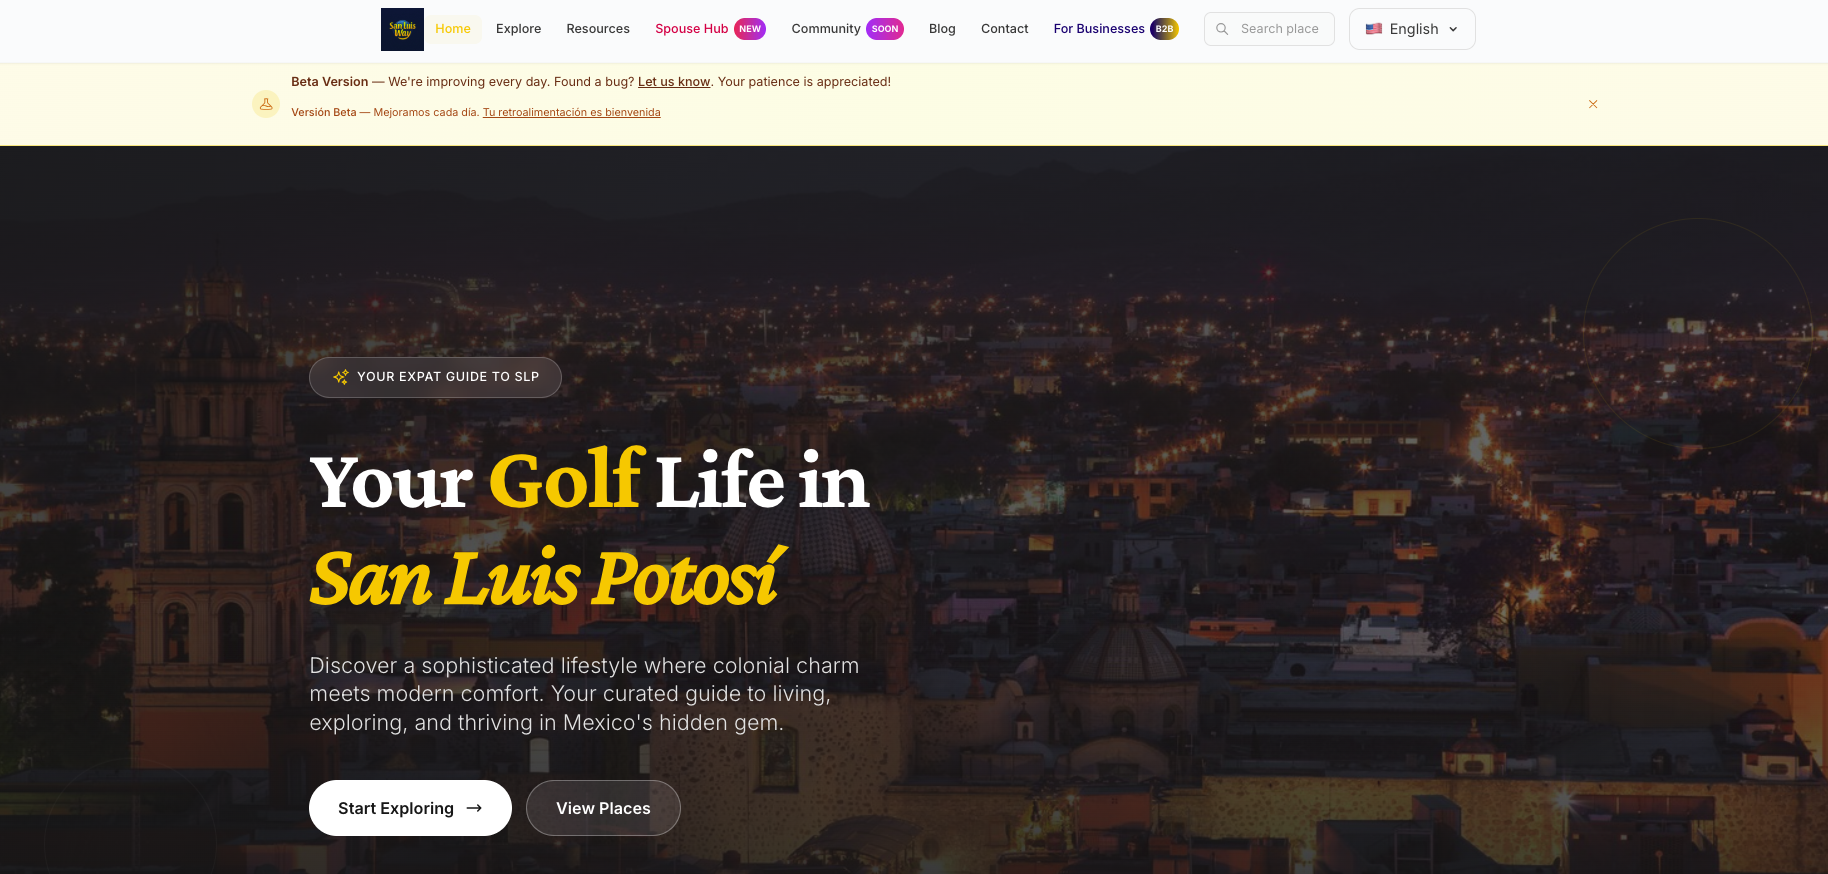
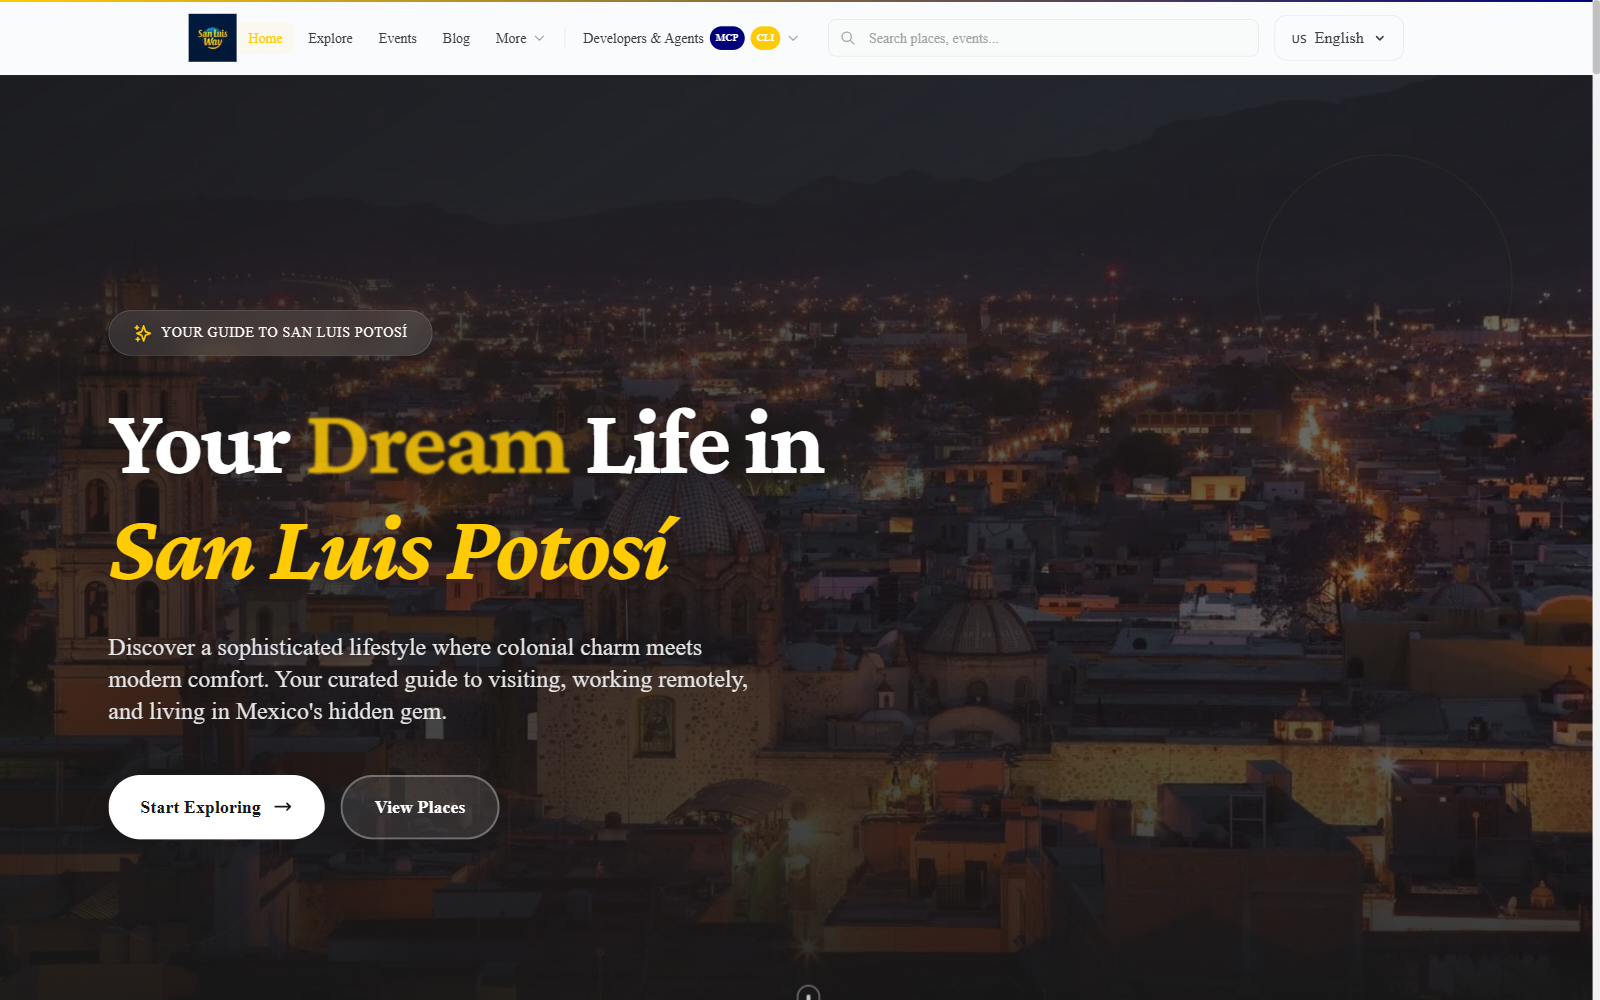
Add BriefBoy project and refresh home thumbnails
Refresh San Luis Way and GlamLocal thumbnails with new captures, add
BriefBoy as a third project on home and /projects. Switch work grid to
16:10 aspect and 3-column layout so images fit without side-cropping,
and surface the tech stack as chips under each card.

diff --git a/app/[locale]/page.tsx b/app/[locale]/page.tsx
@@ -21,12 +21,21 @@ const projects = [
     image: "/images/project-screenshots/san-luis-way.png",
     link: "https://sanluisway.com",
     tagKey: "0",
+    stack: ["Next.js", "Supabase", "OpenAI", "Tailwind"],
   },
   {
     title: "GlamLocal",
     image: "/images/project-screenshots/glamlocal.png",
     link: "https://glamlocal.app/",
     tagKey: "1",
+    stack: ["Next.js", "Supabase", "OpenAI", "Tailwind"],
+  },
+  {
+    title: "BriefBoy",
+    image: "/images/project-screenshots/briefboy.png",
+    link: "https://brief-boy.com/landing",
+    tagKey: "2",
+    stack: ["React", "Node.js", "OpenAI", "Tailwind"],
   },
 ] as const;
 
@@ -190,7 +199,7 @@ export default function Home() {
               </Link>
             </div>
 
-            <div className="grid md:grid-cols-2 gap-8 md:gap-12">
+            <div className="grid md:grid-cols-2 lg:grid-cols-3 gap-8 md:gap-10">
               {projects.map((p, i) => (
                 <Link
                   key={p.title}
@@ -199,13 +208,13 @@ export default function Home() {
                   rel="noopener noreferrer"
                   className={`smooth-reveal stagger-${i + 1} group block`}
                 >
-                  <div className="relative aspect-[4/3] overflow-hidden rounded-lg bg-gray-200 dark:bg-gray-800">
+                  <div className="relative aspect-[16/10] overflow-hidden rounded-lg bg-gray-200 dark:bg-gray-800">
                     <Image
                       src={p.image}
                       alt={p.title}
                       fill
                       className="object-cover object-top transition-transform duration-700 ease-out group-hover:scale-105"
-                      sizes="(max-width: 768px) 100vw, 50vw"
+                      sizes="(max-width: 768px) 100vw, (max-width: 1024px) 50vw, 33vw"
                     />
                     <div className="absolute inset-0 bg-gradient-to-t from-black/10 to-transparent opacity-0 group-hover:opacity-100 transition-opacity duration-500" />
                   </div>
@@ -217,6 +226,16 @@ export default function Home() {
                       <p className="mt-2 text-gray-600 dark:text-gray-400 max-w-md leading-relaxed">
                         {t(`work.items.${p.tagKey}.description`)}
                       </p>
+                      <div className="mt-4 flex flex-wrap gap-1.5">
+                        {p.stack.map((tech) => (
+                          <span
+                            key={tech}
+                            className="text-[10px] uppercase tracking-[0.15em] px-2.5 py-1 rounded-full border border-gray-300 dark:border-gray-700 text-gray-600 dark:text-gray-400 font-medium"
+                          >
+                            {tech}
+                          </span>
+                        ))}
+                      </div>
                     </div>
                     <ArrowUpRight className="h-6 w-6 flex-shrink-0 mt-1 text-gray-400 group-hover:text-black dark:group-hover:text-white transition-all duration-300 group-hover:translate-x-1 group-hover:-translate-y-1" />
                   </div>

diff --git a/app/[locale]/projects/page.tsx b/app/[locale]/projects/page.tsx
@@ -7,7 +7,7 @@ import { Footer } from "../components/ui/footer";
 import { Header } from "../components/ui/header";
 import { ProjectHeroStory } from "./components/ProjectHeroStory";
 
-const heroProjectKeys = ["0", "1"] as const;
+const heroProjectKeys = ["0", "1", "2"] as const;
 
 export default function Projects() {
   const t = useTranslations("projects");